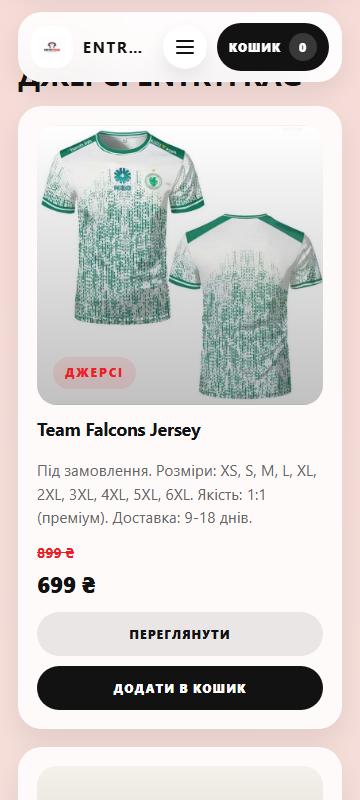
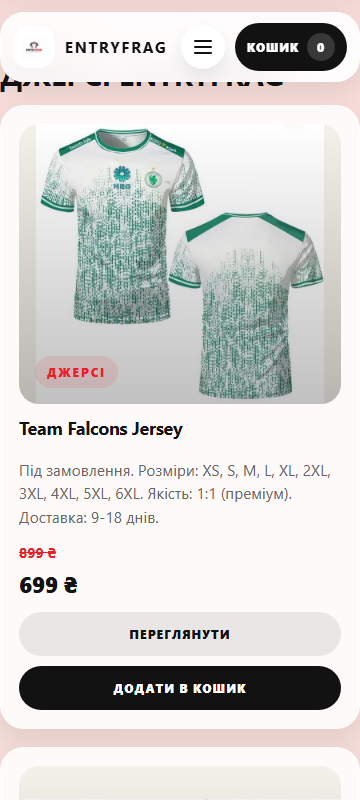
ccsxv

diff --git a/frontend/entryfrag.css b/frontend/entryfrag.css
@@ -78,8 +78,8 @@ input,select,textarea{font:inherit}
 img{display:block;max-width:100%}
 
 .wrap{
-  width:min(var(--content-max),calc(100% - (var(--page-gutter) * 2)));
-  max-width:calc(100dvw - (var(--page-gutter) * 2));
+  width:min(var(--content-max),100%);
+  padding-inline:var(--page-gutter);
   margin:0 auto;
 }
 
@@ -95,8 +95,7 @@ main,section,.wrap,.hero-grid,.about,.products,.categories,.teams-grid,.team-pro
   gap:10px;
   padding:10px 12px;
   margin:12px auto 0;
-  width:min(var(--content-max),calc(100% - (var(--page-gutter) * 2)));
-  max-width:calc(100dvw - (var(--page-gutter) * 2));
+  width:min(var(--content-max),100%);
   background:#ffffffe8;
   border:1px solid #ffffffaa;
   border-radius:var(--radius-lg);
@@ -292,6 +291,7 @@ body.menu-open .header-panel{
   letter-spacing:-.04em;
   text-transform:uppercase;
   max-width:none;
+  overflow-wrap:anywhere;
 }
 
 .hero-main p{
@@ -427,6 +427,7 @@ section.block{padding:var(--section-pad-y) 0}
   font-size:var(--font-section);
   text-transform:uppercase;
   line-height:1.02;
+  overflow-wrap:anywhere;
 }
 
 .section-head p{max-width:560px}
